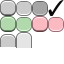
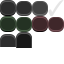
Move Texture to silica-asset

diff --git a/silica-asset/src/image.rs b/silica-asset/src/image.rs
@@ -1,14 +1,25 @@
 use std::io::{BufRead, Error as IoError, ErrorKind, Seek};
 
 use png::*;
+use silica_wgpu::{Context, Texture, TextureConfig, TextureRect, Uv, UvRect, wgpu};
+
+pub type ImagePoint = euclid::Point2D<u32, Image>;
+pub type ImageSize = euclid::Size2D<u32, Image>;
 
 pub struct Image {
-    pub width: u32,
-    pub height: u32,
-    pub data: Vec<u8>,
+    size: ImageSize,
+    data: Vec<u8>,
 }
 
 impl Image {
+    pub const FORMAT: wgpu::TextureFormat = wgpu::TextureFormat::Rgba8UnormSrgb;
+
+    pub fn new(width: usize, height: usize) -> Self {
+        Image {
+            size: ImageSize::new(width as u32, height as u32),
+            data: vec![0; width * height],
+        }
+    }
     pub fn read<R: BufRead + Seek>(reader: R) -> Result<Self, DecodingError> {
         let mut decoder = Decoder::new(reader);
         decoder.set_transformations(Transformations::ALPHA);
@@ -30,9 +41,35 @@ impl Image {
             }
         }
         Ok(Image {
-            width: info.width,
-            height: info.height,
+            size: ImageSize::new(info.width, info.height),
             data,
         })
+    }
+
+    pub fn width(&self) -> usize {
+        self.size.width as usize
+    }
+    pub fn height(&self) -> usize {
+        self.size.height as usize
+    }
+    pub fn size(&self) -> ImageSize {
+        self.size
+    }
+
+    pub fn create_texture(&self, context: &Context, config: &TextureConfig) -> Texture {
+        Texture::new_with_data(context, config, self.size().cast_unit(), Self::FORMAT, &self.data)
+    }
+    pub fn write_to_texture(
+        &self,
+        context: &Context,
+        source: ImagePoint,
+        texture: &Texture,
+        rect: Option<TextureRect>,
+    ) -> UvRect {
+        const BPP: u32 = 4;
+        let rect = rect.unwrap_or(TextureRect::from_size(self.size().cast_unit()));
+        let offset = (source.x + (source.y * self.size.width)) * BPP;
+        texture.write_data(context, rect, &self.data, offset as u64, self.size.width * BPP);
+        Uv::normalize(rect, texture.size())
     }
 }

diff --git a/silica-asset/src/texture.rs b/silica-asset/src/texture.rs
@@ -1,0 +1,46 @@
+use etagere::BucketedAtlasAllocator;
+use silica_wgpu::{Context, Texture, TextureConfig, TextureRect, TextureSize, UvRect};
+
+use crate::image::{Image, ImagePoint};
+
+pub struct TextureAtlas {
+    texture: Texture,
+    allocator: BucketedAtlasAllocator,
+}
+
+impl TextureAtlas {
+    pub fn new(context: &Context, config: &TextureConfig, size: TextureSize) -> Self {
+        TextureAtlas {
+            texture: Texture::new(context, config, size, Image::FORMAT),
+            allocator: BucketedAtlasAllocator::new(size.to_i32().cast_unit()),
+        }
+    }
+    pub fn load(&mut self, context: &Context, image: &Image) -> UvRect {
+        let alloc = self
+            .allocator
+            .allocate(image.size().to_i32().cast_unit())
+            .expect("not enough space in atlas");
+        let rect =
+            TextureRect::from_origin_and_size(alloc.rectangle.min.to_u32().cast_unit(), image.size().cast_unit());
+        image.write_to_texture(context, ImagePoint::zero(), &self.texture, Some(rect))
+    }
+    pub fn load_frames(&mut self, context: &Context, image: &Image, frame_size: TextureSize) -> Vec<UvRect> {
+        let mut uvs = Vec::new();
+        let mut x = 0;
+        while x + frame_size.width <= image.size().width {
+            let alloc = self
+                .allocator
+                .allocate(frame_size.to_i32().cast_unit())
+                .expect("not enough space in atlas");
+            let rect = TextureRect::from_origin_and_size(alloc.rectangle.min.to_u32().cast_unit(), frame_size);
+            uvs.push(image.write_to_texture(context, ImagePoint::new(x, 0), &self.texture, Some(rect)));
+            x += frame_size.width;
+        }
+        uvs
+    }
+    pub fn finish(self, name: &str) -> Texture {
+        let fill_ratio = self.allocator.allocated_space() as f32 / self.allocator.size().area() as f32;
+        log::debug!("{} texture atlas {}% filled", name, (fill_ratio * 100.0) as i32);
+        self.texture
+    }
+}

diff --git a/silica-asset/src/lib.rs b/silica-asset/src/lib.rs
@@ -1,4 +1,5 @@
 pub mod image;
+pub mod texture;
 
 use std::{
     error::Error,
@@ -9,6 +10,7 @@ use std::{
 };
 
 use serde::de::DeserializeOwned;
+use silica_wgpu::{Context, Texture, TextureConfig};
 use zip::{ZipArchive, read::ZipFileSeek};
 
 use crate::image::Image;
@@ -196,7 +198,7 @@ pub fn load_string<S: AssetSource>(asset_source: &mut S, path: &AssetPath) -> Re
     result.map_err(|e| AssetError::with_path(asset_source, path, e))?;
     Ok(buf)
 }
-pub fn load_yaml<S: AssetSource, T: DeserializeOwned>(asset_source: &mut S, path: &AssetPath) -> Result<T> {
+pub fn load_yaml<S: AssetSource, T: DeserializeOwned + 'static>(asset_source: &mut S, path: &AssetPath) -> Result<T> {
     let reader = asset_source.load(path)?;
     serde_yml::from_reader(reader)
         .map_err(|e| AssetError::with_path(asset_source, path, IoError::new(ErrorKind::InvalidData, e)))
@@ -212,4 +214,12 @@ pub fn load_image<S: AssetSource>(asset_source: &mut S, path: &AssetPath) -> Res
         };
         AssetError::with_path(asset_source, path, error)
     })
+}
+pub fn load_texture<S: AssetSource>(
+    context: &Context,
+    config: &TextureConfig,
+    asset_source: &mut S,
+    path: &str,
+) -> Result<Texture> {
+    Ok(load_image(asset_source, path)?.create_texture(context, config))
 }

diff --git a/silica-gui/src/theme.rs b/silica-gui/src/theme.rs
@@ -2,9 +2,7 @@ use euclid::{Box2D, SideOffsets2D};
 use serde::Deserialize;
 use silica_asset::{AssetError, AssetSource};
 use silica_layout::Size;
-use silica_wgpu::{
-    Context, Texture, TextureConfig, TextureRect, TextureSize, Uv, UvRect, draw::*, wgpu::TextureFormat,
-};
+use silica_wgpu::{Context, Texture, TextureConfig, TextureRect, TextureSize, Uv, UvRect, draw::*};
 
 use crate::{
     Color, FontSystem, Pixel, Rect, Rgba,
@@ -147,14 +145,7 @@ impl StandardTheme {
     ) -> Result<Self, AssetError> {
         let config: StandardThemeConfig = silica_asset::load_yaml(asset_source, "config.yaml")?;
         let font_system = FontSystem::with_font_assets(asset_source, config.fonts.iter().map(String::as_str))?;
-        let image = silica_asset::load_image(asset_source, &config.texture)?;
-        let texture = Texture::new_with_data(
-            context,
-            texture_config,
-            TextureSize::new(image.width, image.height),
-            TextureFormat::Rgba8UnormSrgb,
-            &image.data,
-        );
+        let texture = silica_asset::load_texture(context, texture_config, asset_source, &config.texture)?;
         let texture_size = texture.size();
         let button = config.button.with_texture_size(texture_size);
         Ok(StandardTheme {

diff --git a/silica-game/examples/wasd.rs b/silica-game/examples/wasd.rs
@@ -3,7 +3,6 @@ use std::sync::Arc;
 use silica_game::{
     keyboard::KeyCode,
     render::{Batcher, Context, SurfaceSize, Texture, TextureConfig, Uv, wgpu},
-    texture::{Image, ImageExt},
     world2d::{Camera2D, Pipeline2D, Point, Quad, Rect, Vector},
     *,
 };
@@ -62,7 +61,7 @@ impl Game for WasdGame {
     }
     fn load(_window: Arc<Window>, context: &Context, mut assets: GameAssets) -> Result<Self, AssetError> {
         let texture_config = TextureConfig::new(context, wgpu::FilterMode::Linear);
-        let player_texture = Image::load_texture(context, &texture_config, &mut assets, "player.png")?;
+        let player_texture = asset::load_texture(context, &texture_config, &mut assets, "player.png")?;
         Ok(WasdGame {
             texture_config,
             pipeline: None,

diff --git a/silica-window/examples/gallery.rs b/silica-window/examples/gallery.rs
@@ -75,7 +75,7 @@ fn build_gui(gui: &mut Gui) -> NodeId {
                 "Four".to_string(),
             ],
             0,
-            |mut context, option| {},
+            |_, _| {},
         ))
         .child({
             let group = ExclusiveGroup::new(false, move |mut context, index| {

diff --git a/silica-game/src/lib.rs b/silica-game/src/lib.rs
@@ -1,7 +1,6 @@
 pub mod audio;
 pub mod locale;
 pub mod particles;
-pub mod texture;
 pub mod util;
 pub mod world2d;
 
